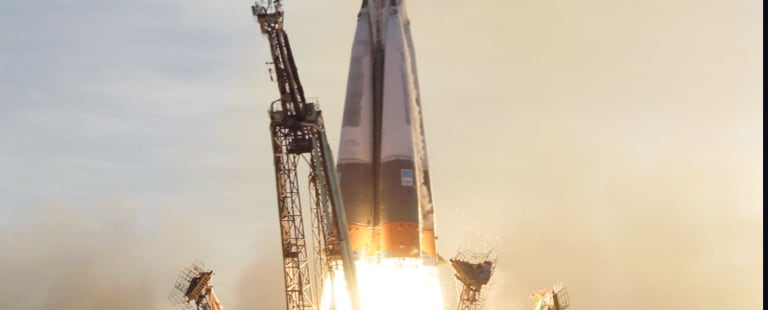
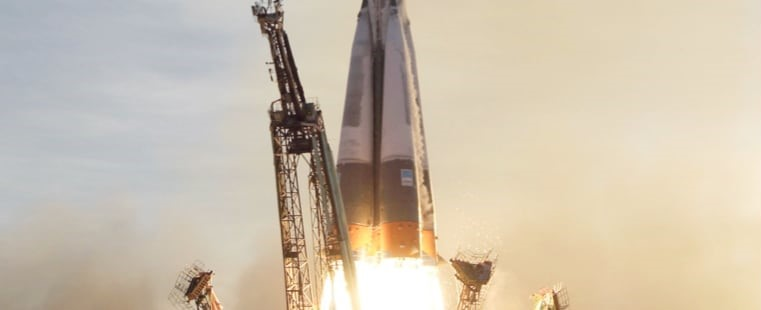
header overflow fixed and launch vehicle img cropped

diff --git a/src/components/style.css b/src/components/style.css
@@ -158,6 +158,10 @@ header .header-container .mobile-menu-btn img {
 /* --- Mobile --- */
 @media screen and (max-width: 700px) {
   /* Header */
+  header .header-container {
+    overflow-x: clip;
+  }
+
   header .header-container .mobile-menu-btn {
     display: block;
   }
